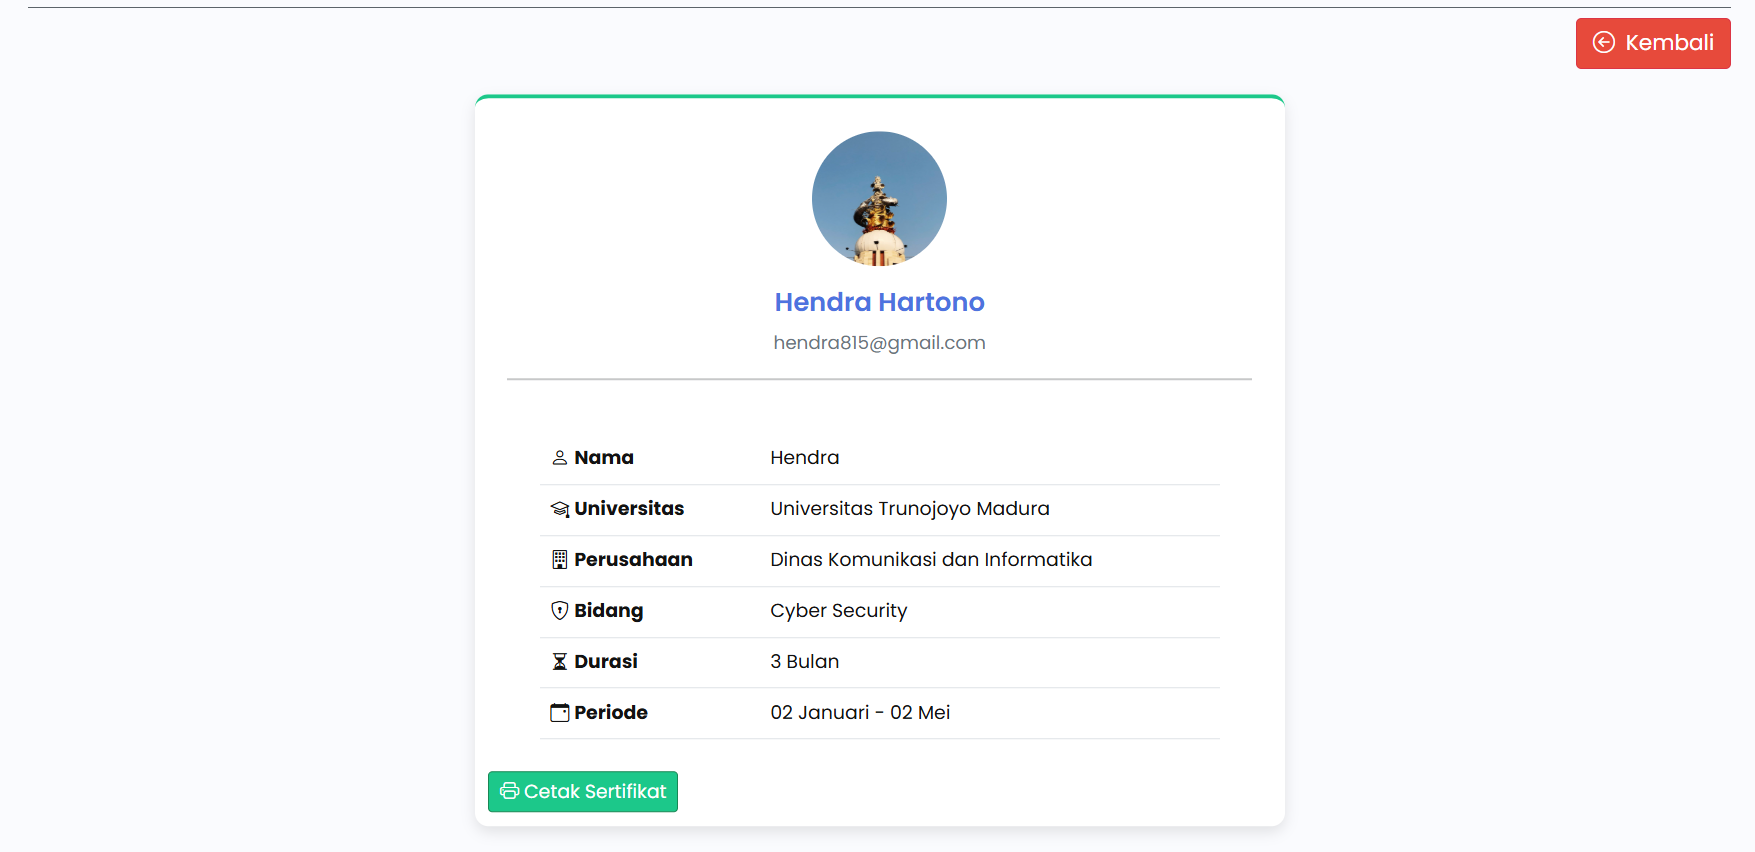
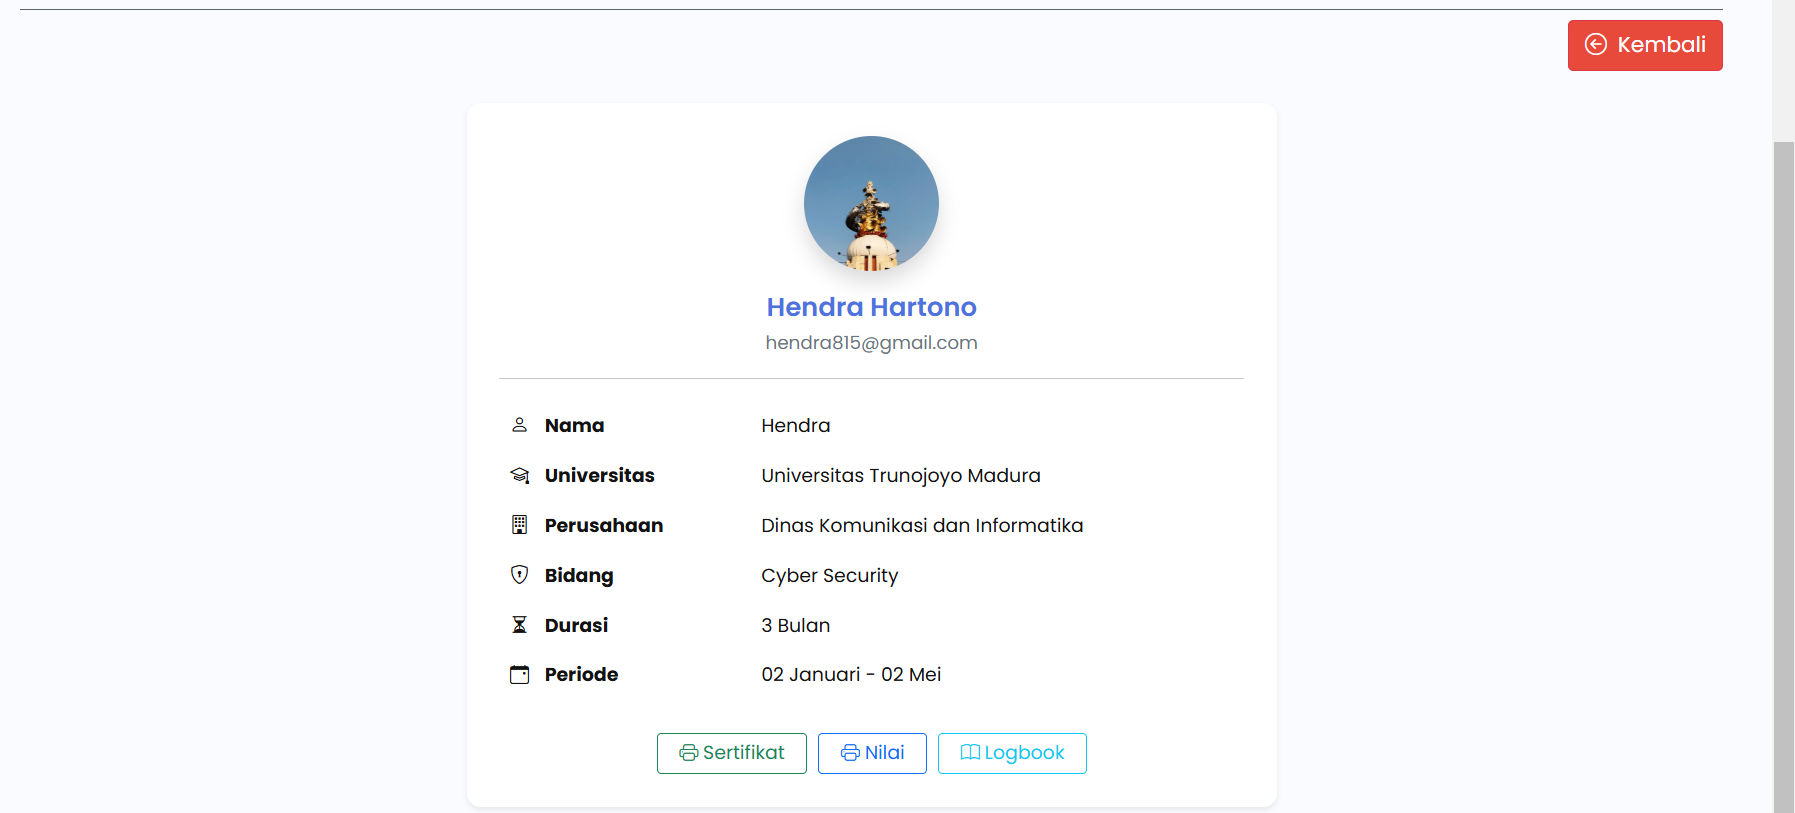
edit by hevia

diff --git a/web/tentang.php b/web/tentang.php
@@ -125,15 +125,15 @@
                             <div class="contact__card-info">
                                 <i class="bx bxs-file-export"></i>
                                 <div>
-                                    <h3 class="contact__card-title">Cek Sertifikat</h3>
+                                    <h3 class="contact__card-title">Cek Sertifikat dan Nilai</h3>
                                 </div>
                             </div>
-                            <button class="button contact__card-button" data-bs-toggle="modal" data-bs-target="#tutorialModal" data-title="Cek Sertifikat" 
+                            <button class="button contact__card-button" data-bs-toggle="modal" data-bs-target="#tutorialModal" data-title="Cek Sertifikat dan Nilai" 
                             data-steps='[{"step":"Masuk ke dashboard user, dan klik Histori", "img":"../assets/img/tentang/dashboard.png"}, 
                             {"step":"Kamu akan diarahkan ke halaman Histori.", "img":"../assets/img/tentang/histori.png"},
                             {"step":"Klik ikon detail."},
-                            {"step":"Klik Cetak Sertifikat.", "img":"../assets/img/tentang/detail_histori.png"},
-                            {"step":"Jika sertifikat belum tersedia, artinya admin instansi belum menggunggah sertifikat Kamu.]'>Lihat</button>
+                            {"step":"Klik Cetak Sertifikat atau Nilai.", "img":"../assets/img/tentang/detail_histori.png"},
+                            {"step":"Jika sertifikat atau nilai belum tersedia, artinya admin instansi belum menggunggah sertifikat dan nilai Kamu. Jadi bersabar yaa."}]'>Lihat</button>
                         </div>
                     </div>
                 </div>
@@ -146,7 +146,7 @@
     <!-- Modal -->
     <div class="modal fade" id="tutorialModal" tabindex="-1" aria-labelledby="tutorialModalLabel" aria-hidden="true">
         <div class="modal-dialog modal-lg">
-            <div class="modal-content">
+            <div class="modal-content text-dark">
                 <div class="modal-header">
                     <h5 class="modal-title" id="tutorialModalLabel">Modal title</h5>
                     <button type="button" class="btn-close" data-bs-dismiss="modal" aria-label="Close"></button>

diff --git a/user/dashboard.php b/user/dashboard.php
@@ -46,9 +46,9 @@
             <div class="col-lg-3 col-md-6 mb-4">
                 <div class="card shadow-sm border-0">
                     <div class="card-body">
-                        <h5 class="card-title">Cek Sertifikat</h5>
+                        <h5 class="card-title">Cek Sertifikat dan Nilai</h5>
                         <h2 class="card-text text-warning">1</h2>
-                        <p class="text-muted">Seritifikat Tersedia</p>
+                        <p class="text-muted">Tersedia</p>
                         <a href="histori.php" class="btn btn-warning mt-3 detail">View Details</a>
                     </div>
                 </div>

diff --git a/layout/faqs.php b/layout/faqs.php
@@ -62,7 +62,7 @@
     </h2>
     <div id="flush-collapseFive" class="accordion-collapse collapse" aria-labelledby="flush-headingFive" data-bs-parent="#accordionFlushExample">
       <div class="accordion-body">
-        Pendaftaran dapat dilakukan atau diwakilkan oleh salah satu anggota kelompok saja yaa.
+        Pendaftaran dapat dilakukan atau diwakilkan oleh salah satu anggota kelompok saja yaa. Dan pastikan anggoota kelompok yang lain sudah punya akun di sistem ini yaa.
       </div>
     </div>
   </div>
